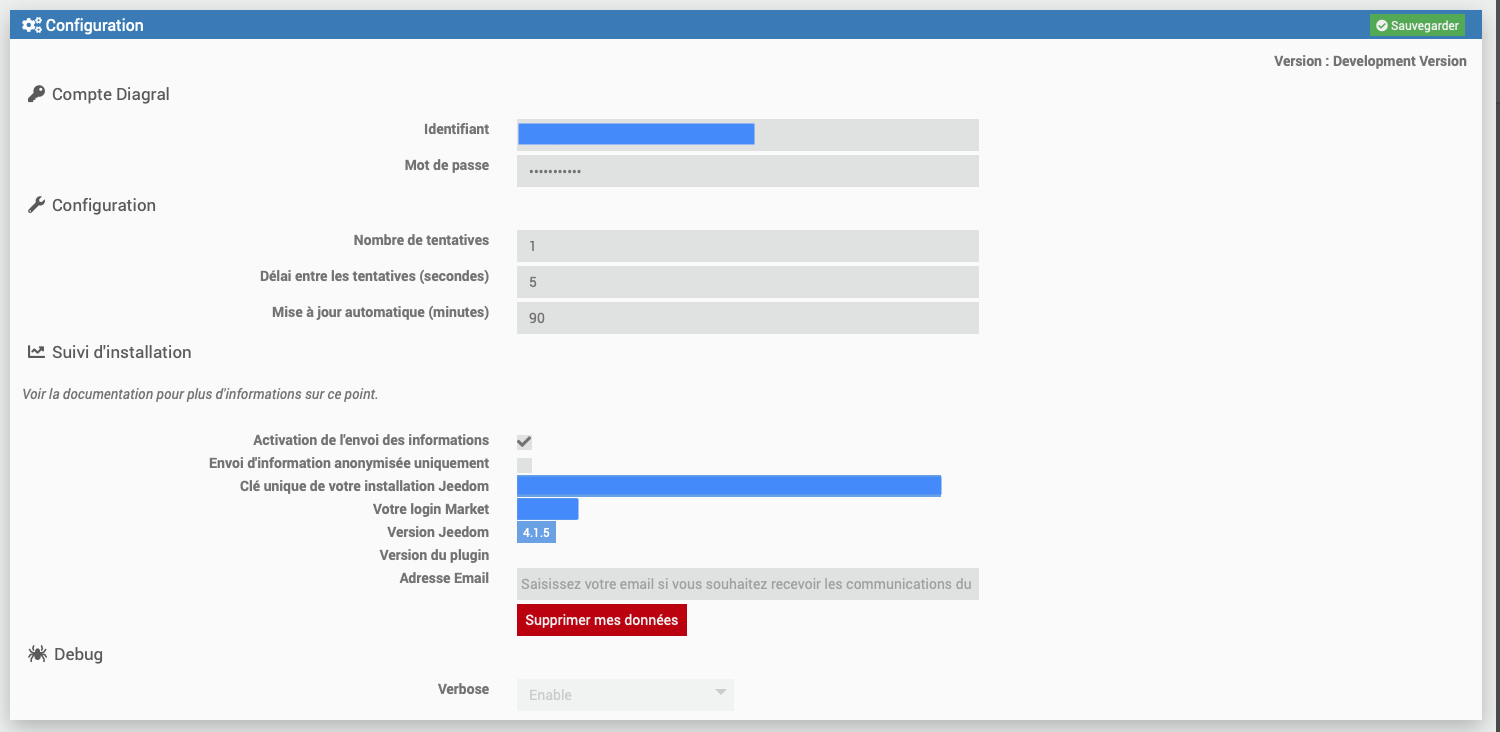
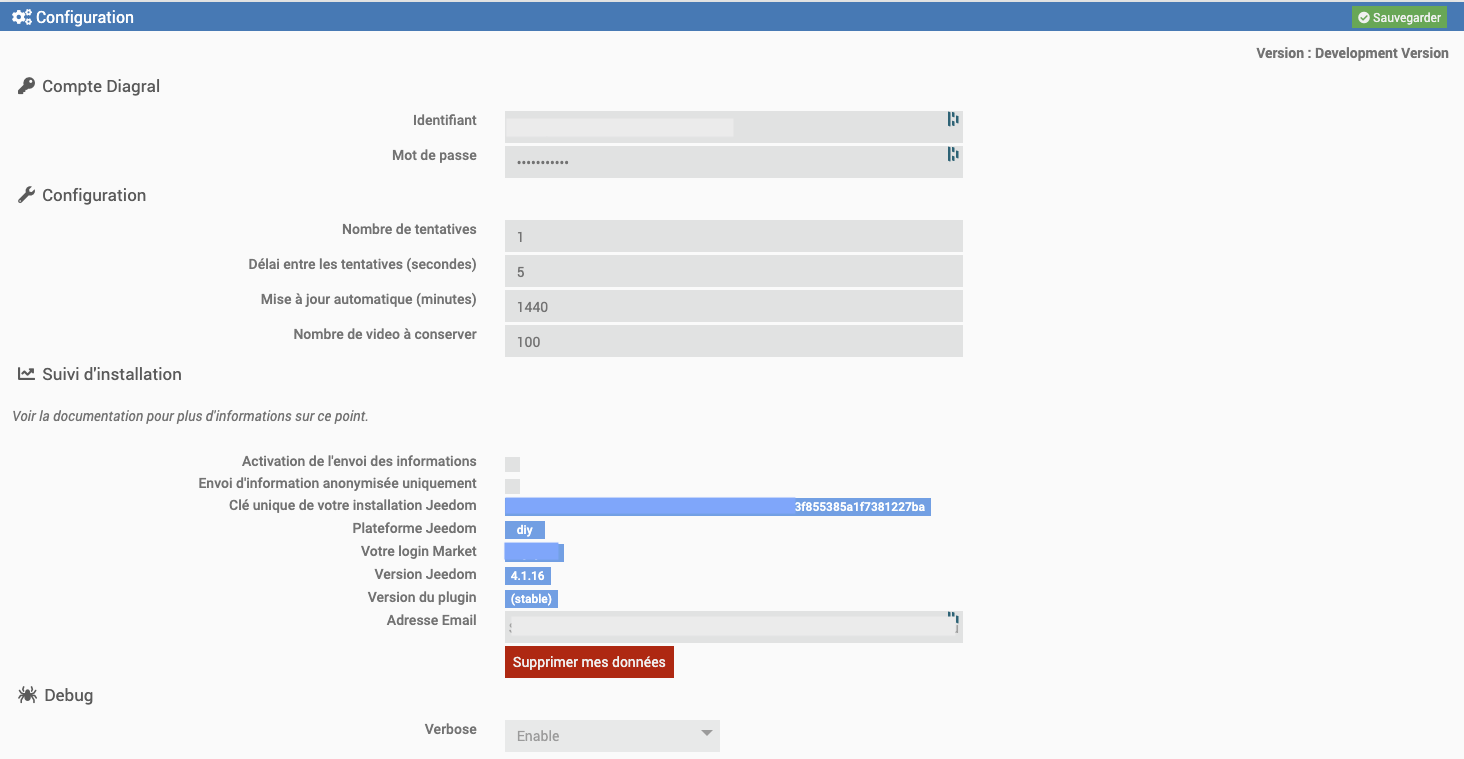
Documentation Diagral - BETA v2.0.0

Changed region(s): [[0.0, 0.0, 1.0, 1.0], [0.1537, 0.1503, 0.6762, 0.4809]]

diff --git a/fr_FR/Diagral_eOne/documentation.md b/fr_FR/Diagral_eOne/documentation.md
@@ -18,7 +18,14 @@ Diagral propose uniquement une méthode Cloud d'interraction avec votre alarme, 
 
 C'est donc une interface __CLOUD__
 
+# Equipements supportés
+
+- Centrale d'alarme
+- Détecteur à images <span style="color:red">__FONCTIONNALITE DISPONIBLE UNIQUEMENT EN BETA A PARTIR DE v2.0.0__</span>
+
 # Configuration
+
+## Configuration du plugin
 
 __Le plugin se veut simple (et non simpliste) en utilisation et en configuration__.
 Tout ce que le plugin peut récupérer via le Cloud Diagral est fait afin de vous éviter des configurations inutiles et source d'erreurs.
@@ -30,6 +37,8 @@ Vous y saissez les informations suivantes :
 -   Mot de passe : Le mot de passe associé à l'identifiant
 -   Nombre de tentatives : nombre de tentatives en cas d'échec de connexion au Cloud Diagral (default : 1)
 -   Délai entre les tentatives : délais entre les tentatives (en secondes)
+-   Mise à jour automatique (minutes) : Fréquence de mise à jour des informations eOne
+-   Nombre de vidéos à conserver : Quantité de vidéos conservé dans Jeedom (pour l'ensemble des équipements supportant le téléchargement des vidéos - ex: détecteur à images)
 -   Suivi d'installation (cf chapitre dédié)
 -   Verbose : Permettant de définir un niveau de verbosité pour les requètes vers le Cloud Diagral (_Pas encore utilisable_)
 
@@ -38,14 +47,18 @@ Vous y saissez les informations suivantes :
 
 ## Configuration d'un équipement
 
-La création de l'équipement se fait de façon automatique. Il vous suffit de cliquer sur Synchronisation dans le plugin, pour que chacune des alarmes configurées et finalisées dans votre compte Diagral, soit créée. Elles sont automatiquement nommées telles que dans l'application Mobile Diagral.
+La création de l'équipement se fait de façon automatique. Il vous suffit de cliquer sur Synchronisation dans le plugin, pour que chacun des produits supportés et  configurées et finalisées dans votre compte Diagral, soit créée. Elles sont automatiquement nommées telles que dans l'application Mobile Diagral.
+
+### Centrale d'alarme
 
 Une fois le/les alarmes créées, il faut entrer dans chacune d'elles afin de configurer :
--   le __Master Code__ (celui que vous utilisez pour vous connecter à votre alarme avec l'application Mobile Digral e-ONE).
+-   le __Master Code__ (celui que vous utilisez pour vous connecter à votre alarme avec l'application Mobile Diagral e-ONE).
 -   l'objet parent
+-   L'activation (optionnelle) de la fonction de sécurisation désarmement
+-   La désactivation (optionnelle) du widget Diagral activé par défaut
 -   activer l'équipement
 
-![Configuration Equipement](images/ConfigurationDevice.png)
+![Configuration Centrale](images/ConfigurationCentrale.png)
 
 
 > Une fonctionnalité de sécurisation du désarmement (SecureDisam) est disponible avec l'option __Sécurisation désarmement__.
@@ -55,9 +68,26 @@ Une fois le/les alarmes créées, il faut entrer dans chacune d'elles afin de co
 > 
 > Cette fonctionnalité ne prend de sens que pour empêcher la désactivation de l'alarme à un compte _Utilisateur_ ou _Utilisateur limité_ Jeedom. Par exemple, pour une tablette qui déporte l'affichage de votre Jeedom. En tant qu'administrateur, même si la fonctionnalitée SecureDisarm est active, elle est outre-passée.
 
-Lors de la sauvegarde, de nouvelles commandes vont se créer car elle nécessitent le MasterCode (ex : _Activation Partielle ou Lancement Scenario).
+Lors de la sauvegarde, de nouvelles commandes vont se créer car elle nécessitent le MasterCode (ex : _Activation Partielle ou Lancement Scenario_).
 
 Ces commandes sont en fait les commandes qui permettent d'avoir une liste déroulante dans les scénarios. Ainsi le plugin va personnaliser les listes déroulantes avec les informations présentes sur votre compte.
+
+### Détecteur à Image 
+
+> <span style="color:red">__FONCTIONNALITE DISPONIBLE UNIQUEMENT EN BETA A PARTIR DE v2.0.0__</span>
+
+Aucune configuration particulière à effectuer ici. L'équipement est créé de façon automatique et est actif.
+
+Seul une options est configurable 'Video Auto Download' qui permet au plugin de télécharger de façon automatique les vidéos disponibles (des vidéos de 5 secondes) selon la politique de retention (cf. chapitre Configuration du plugin).
+
+> Le téléchargement des vidéos se fait lors du rafraichissement automatique (cf. chapitre Rafraichissement > Automatique).
+> Il est recommandé de ne pas avoir une fréquence trop rapide pour eviter de se faire blacklister par Diagral
+
+![Configuration Detecteur à Images](images/ConfigurationImageDetector.png)
+
+Les vidéos sont visibles via la page de l'équipement en cliquant sur le bouton __Consulter__ dans __Liste des vidéos disponibles__
+
+![Configuration Detecteur à Images](images/ModaleVideosImageDetector.png)
 
 # Déclenchement d'alarme
 
@@ -147,15 +177,17 @@ Afin d'éviter de trop requêter les serveurs Diagral, le plugin met en cache le
 
 Le cache est regénéré - par une tâche CRON - automatiquement tous les dimanches à une heure définie aléatoirement lors de l'installation.
 
-Vous pouvez forcer la regénération manuellement avec les commandes 
+Vous pouvez forcer la regénération manuellement avec les commandes suivante disponible sur la centrale
 -   __Force Groups Refresh__ 
 -   __Force Scenarios Refresh__
 
 # Commandes
 
+## Centrale 
+
 Il existe actuellement plusieurs commandes qui sont décrites ci-dessous :
 
-## Action
+### Action
 
 -   __Rafraichir__ : Mise à jour du statut de l'Alarme
   
@@ -186,7 +218,7 @@ Il existe actuellement plusieurs commandes qui sont décrites ci-dessous :
 
 -   __Lancement Scenario__ : Exécute un scénario
 
-## Info
+### Info
 
 -   Statut : Etat binaire de l'activation de l'alarme
 -   Mode : Statut de l'alarme
@@ -204,15 +236,29 @@ Il existe actuellement plusieurs commandes qui sont décrites ci-dessous :
     -   _Exemple "code d'accès principal"_
 -   IMPORT - Dernier utilisateur : Dernière methode ayant intervenu sur l'alarme, reçue par message (mail ou sms)
 
+## Détecteur à Image 
+
+> <span style="color:red">__FONCTIONNALITE DISPONIBLE UNIQUEMENT EN BETA A PARTIR DE v2.0.0__</span>
+
+Il existe actuellement plusieurs commandes qui sont décrites ci-dessous :
+
+### Action
+
+-   __Déclencher Enregistrement__ : Déclenche manuellement un enregistrement sur le détecteur à image
+
+### Info
+
+-   Dernière video : Retourne le chemin complet de la dernière vidéo téléchargé
+
 # Journal d'activité
 
 Sur la page de configuration de l'équipement, vous avez un bouton vous permettant d'ouvrir une modale avec l'ensemble des evenements des 30 précédents jours.
 
 ![Journal d'activité](images/ModaleActivity.png)
 
-# Dashboard
+# Widget
 
-Le plugin inclus un dashboard qui permet de :
+Le plugin inclus un Widget qui permet de :
 -   Connaitre le statut de l'alarme (y compris si une alarme est en cours)
 -   Connaitre le nombre de mise à jour de l'alarme disponible
 -   Activation totale de l'alarme
@@ -223,6 +269,8 @@ Le plugin inclus un dashboard qui permet de :
 -   Lancement d'un scénario
 
 ![Dashboard](images/Dashboard.png)
+
+> Ce widget peut être désactivé dans la configuration de la centrale (seul équipement ayant pour le moment un widget personnalisé)
 
 # HomeBridge
 

diff --git a/fr_FR/Diagral_eOne/changelog.md b/fr_FR/Diagral_eOne/changelog.md
@@ -2,6 +2,19 @@
 
 __Lorsque aucunes informations ne sont disponibles sur le changelog, cela implique un changement de documentation uniquement__
 
+# 2021-02-03 - v2.0.0 (BETA)
+
+<span style="color:red">__/!\ Version préparant l'intégration de produits eOne autre que l'alarme (Camera / Portail)__</span>
+
+Cette version intègre cependant quelques fonctionnalitées ci-dessous :
+- Gestion des détecteurs à images
+- Consultation des vidéos générés par le détecteur à Images
+- Lancement par scénario d'une création de vidéo sur un détecteur à images
+- Téléchargement automatique des vidéos du détecteur à image
+- Gestion d'une purge automatique des vidéos (nombre maximale de vidéos configurable dans le plugin)
+- Fourniture d'une commande incluant la position de la dernière vidéo (pour l'envoyer dans une alerte par exemple)
+- Ajout d'une option dans l'équipement centrale pour désactiver le widget du plugin
+
 # 2020-10-04 - v1.3.0
 
 - Intégration d'un listing des evenements sur la page de l'équipement
